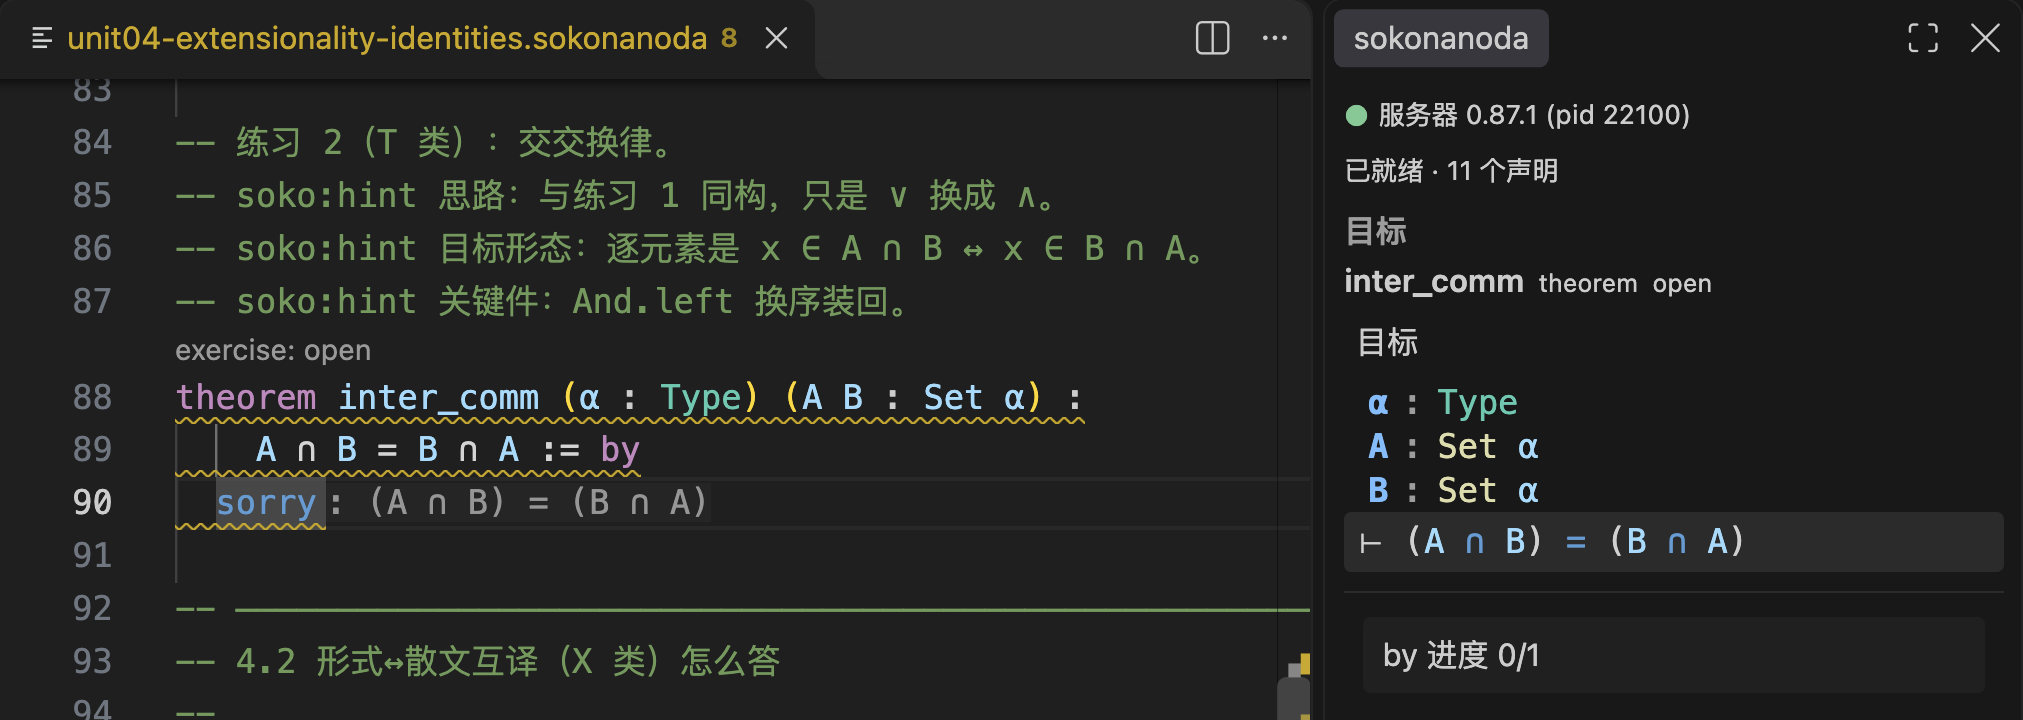
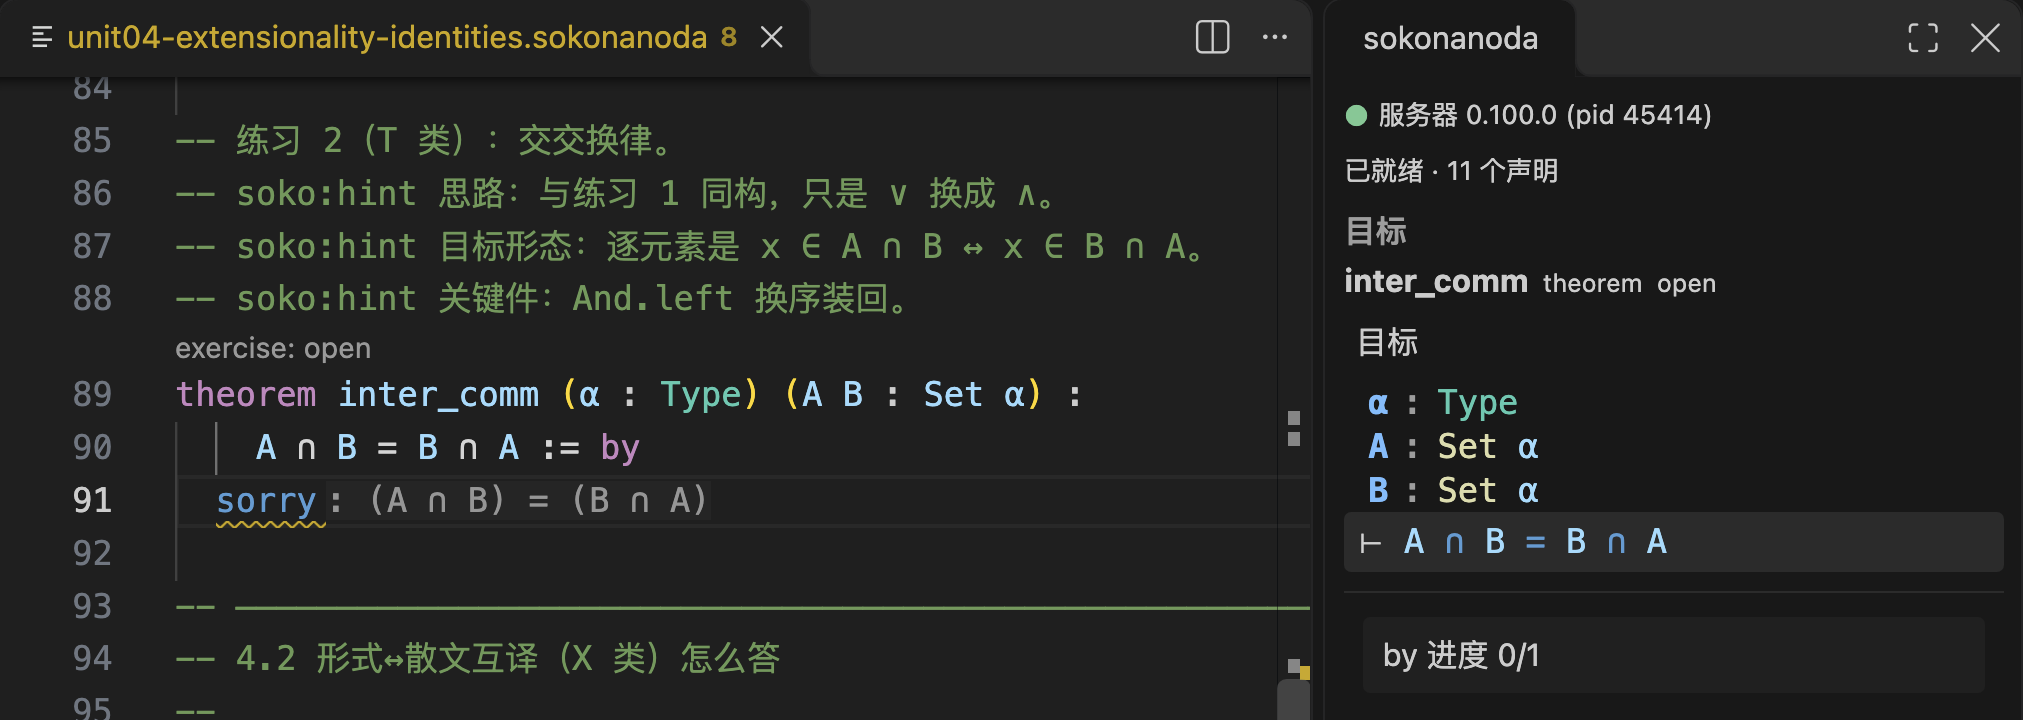
site: 头图/GIF 更新到 v0.100.0 + og:image 分享卡
头图与演示 GIF 用已发布 v0.100.0 的 VSIX 重截/重录（旧图里还写着服务器
0.87.1 / 0.98.2）；新增 1200×630 分享卡与 og:image/twitter 元数据，链接
在 HN / Product Hunt / 飞书 / 微信里展开时有预览图。

check-site 现在允许并校验这一张分享卡（固定 1200×630、同一体积预算、
og:image 必须指向它），其它未登记位图仍然判红。生成命令：
launch/cards/render.sh。

验证：python3 scripts/check-site.py（10/10）· --browser（12/12）·
python3 scripts/docs-lint.py · python3 scripts/status-lint.py。

diff --git a/site/index.html b/site/index.html
@@ -14,6 +14,13 @@
 <meta property="og:description" content="像写数学证明一样一句一句写：目标实时可见，写错了内核告诉你。">
 <meta property="og:url" content="https://colorlessboy.github.io/sokonanoda-lang/">
 <meta property="og:locale" content="zh_CN">
+<meta property="og:image" content="https://colorlessboy.github.io/sokonanoda-lang/assets/og-card.png">
+<meta property="og:image:type" content="image/png">
+<meta property="og:image:width" content="1200">
+<meta property="og:image:height" content="630">
+<meta property="og:image:alt" content="Sokonanoda — learn formal proofs, one line at a time.">
+<meta name="twitter:card" content="summary_large_image">
+<meta name="twitter:image" content="https://colorlessboy.github.io/sokonanoda-lang/assets/og-card.png">
 <link rel="icon" href="favicon.svg" type="image/svg+xml">
 
 <link rel="stylesheet" href="assets/fonts.css">

diff --git a/scripts/check-site.py b/scripts/check-site.py
@@ -83,6 +83,11 @@ DEMO_DARK = "assets/demo-vscode-dark.gif"
 DEMO_MIN_FRAMES = 10          # 静态图不算演示
 DEMO_MIN_SECONDS = 3.0
 DEMO_MAX_SECONDS = 20.0
+# 社交分享卡（2026-11-27，launch kit）：链接在 HN / Product Hunt / 飞书 / 微信里
+# 展开时的预览图，也是 `og:image` 指的那张。它是**生成物**（launch/cards/render.sh
+# 用真头图 + 真文案渲染），不是手画的装饰图；尺寸固定 1200×630。
+OG = "assets/og-card.png"
+OG_SIZE = (1200, 630)
 BITMAP_EXT = (".png", ".jpg", ".jpeg", ".gif", ".webp", ".avif", ".bmp", ".ico")
 
 
@@ -528,15 +533,17 @@ def gif_info(path: str) -> dict:
 
 def check_assets(files: list[str], pages: dict[str, PageParser]) -> str:
     bitmaps = {os.path.relpath(f, SITE): f for f in files if f.lower().endswith(BITMAP_EXT)}
-    allowed = {HERO, HERO_DARK, DEMO, DEMO_DARK}
+    allowed = {HERO, HERO_DARK, DEMO, DEMO_DARK, OG}
     unexpected = [k for k in bitmaps if k not in allowed]
     if unexpected:
-        raise Failure(f"位图只允许两版头图 + 两版演示 GIF（都必须由 scripts/site-screenshot.mjs / "
-                      f"site-demo.mjs 生成）：{unexpected}")
+        raise Failure(f"位图只允许两版头图 + 两版演示 GIF + 一张分享卡（头图/GIF 必须由 "
+                      f"scripts/site-screenshot.mjs / site-demo.mjs 生成；分享卡由 "
+                      f"launch/cards/render.sh 生成）：{unexpected}")
     missing = sorted(allowed - set(bitmaps))
     if missing:
         raise Failure(f"缺大图 {missing}（头图两版：`node scripts/site-screenshot.mjs [--theme dark]`；"
-                      f"演示两版：`node scripts/site-demo.mjs [--theme dark]`）")
+                      f"演示两版：`node scripts/site-demo.mjs [--theme dark]`；"
+                      f"分享卡：`launch/cards/render.sh`）")
 
     # ── 头图：真 PNG，两版同一裁切几何 ──
     sizes = {}
@@ -611,9 +618,21 @@ def check_assets(files: list[str], pages: dict[str, PageParser]) -> str:
     light_kb = sizes[HERO][0] // 1024
     dark_kb = sizes[HERO_DARK][0] // 1024
     demo_kb = max(demo_sizes[DEMO][0], demo_sizes[DEMO_DARK][0]) // 1024
+    # ── 社交分享卡：尺寸固定、预算同档；`og:image` 必须真的指到它 ──
+    og_size = os.path.getsize(bitmaps[OG])
+    if og_size > IMAGE_BUDGET:
+        raise Failure(f"{OG} 有 {og_size} 字节，超过每张大图预算 {IMAGE_BUDGET}")
+    got = png_size(bitmaps[OG])
+    if got != OG_SIZE:
+        raise Failure(f"{OG} 是 {got[0]}×{got[1]}，分享卡固定为 {OG_SIZE[0]}×{OG_SIZE[1]}")
+    og_meta = pages["index.html"].meta.get("og:image", "")
+    if not og_meta.endswith("/" + OG):
+        raise Failure(f"index.html 的 og:image 必须指向 /{OG}，实测 {og_meta!r}")
+    og_kb = og_size // 1024
     detail = (f"头图两版 {light_kb}+{dark_kb} KB（{width}×{height}，尺寸一致）· "
               f"演示 GIF {demo_kb} KB（{dw}×{dh}，{demo_sizes[DEMO][1]['frames']} 帧 / "
-              f"{demo_sizes[DEMO][1]['duration']:.1f}s，两版尺寸一致）· 每张 ≤{IMAGE_BUDGET // 1024} KB")
+              f"{demo_sizes[DEMO][1]['duration']:.1f}s，两版尺寸一致）· "
+              f"分享卡 {og_kb} KB（{OG_SIZE[0]}×{OG_SIZE[1]}）· 每张 ≤{IMAGE_BUDGET // 1024} KB")
     total = size_readings(files)["site_text_bytes"]   # 读数**一处定义**（与 ratchet --measure 同源 ✓）
     if total > SIZE_BUDGET:
         raise Failure(f"html+css+js 共 {total} 字节，超过预算 {SIZE_BUDGET}")
